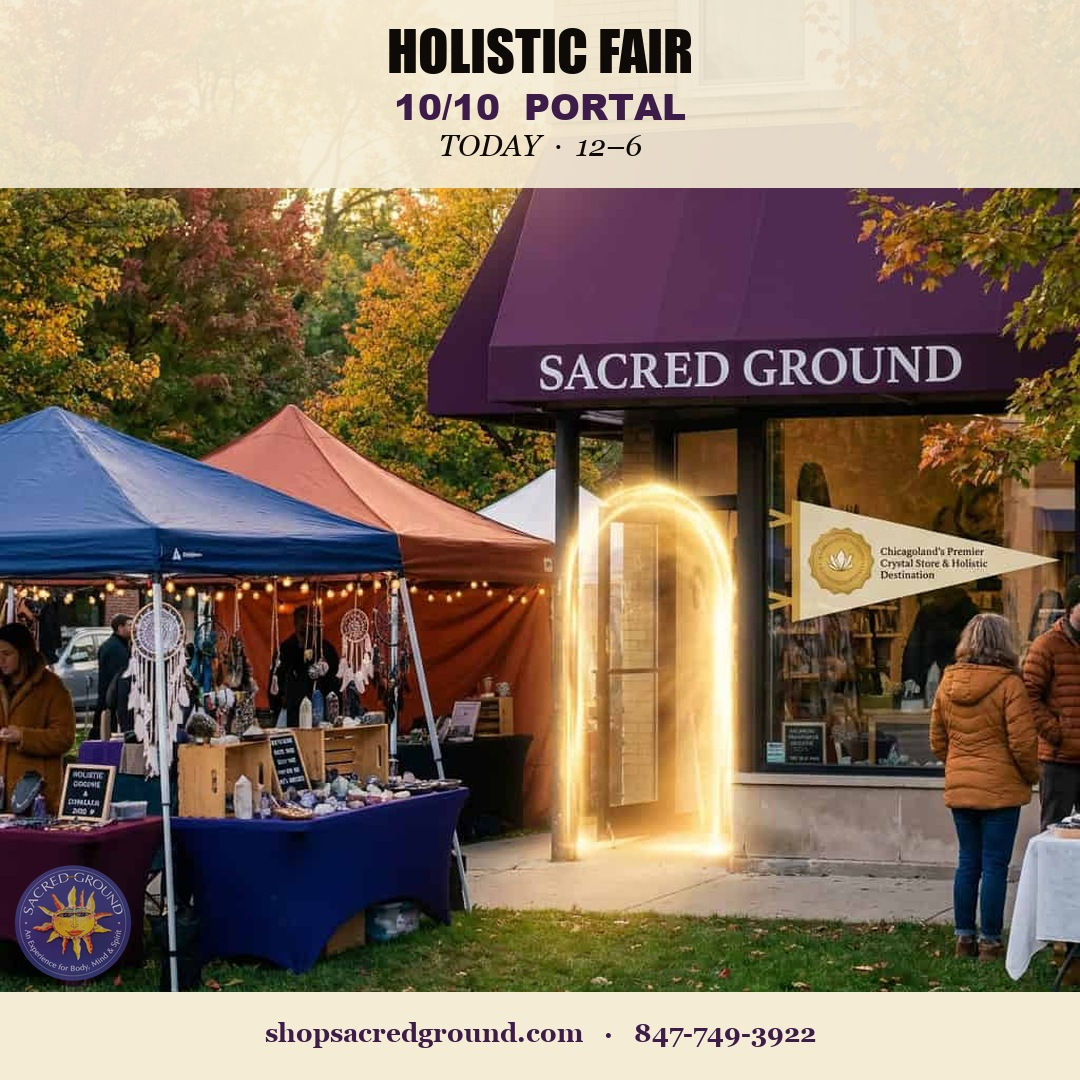
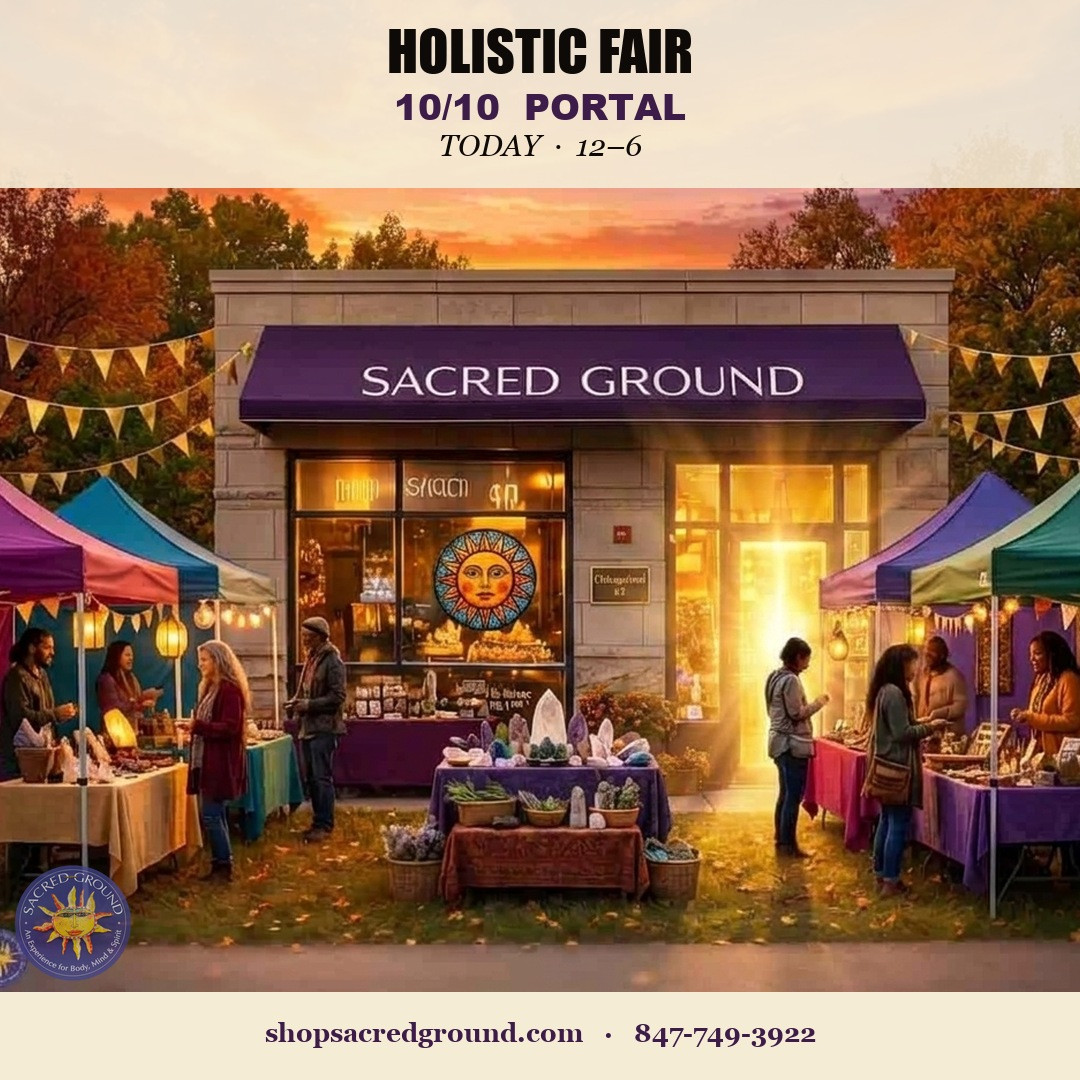
Remake Oct 8 and Oct 10 from the real Sacred Ground storefront.
Prize wheel and invented one-door shop are out. These use the locked left-window, right-doors facade.

diff --git a/WORK-LOG.md b/WORK-LOG.md
@@ -1,3 +1,11 @@
+## 2026-10-02 — Remake Oct 8 5pm + Oct 10 morning/night from the real shop
+
+Founder: Oct 8 prize wheel terrible; Oct 10 9am bad; Oct 10 7pm not our
+store. Regenerated from exterior-1 / sg-night-fall (left window, right
+double doors, eggplant awning, cart). Oct 8 cart **28943**. Oct 10
+morning Fair + glowing door **28944**. Oct 10 night portal **28945**.
+Oct 9 lantern stays.
+
 ## 2026-10-02 — Remake Oct 8–9; 10/10 on night + Fair morning
 
 Founder: Oct 8 + 9 5pm were bad. Cinematic short on Oct 8 was a hallway
